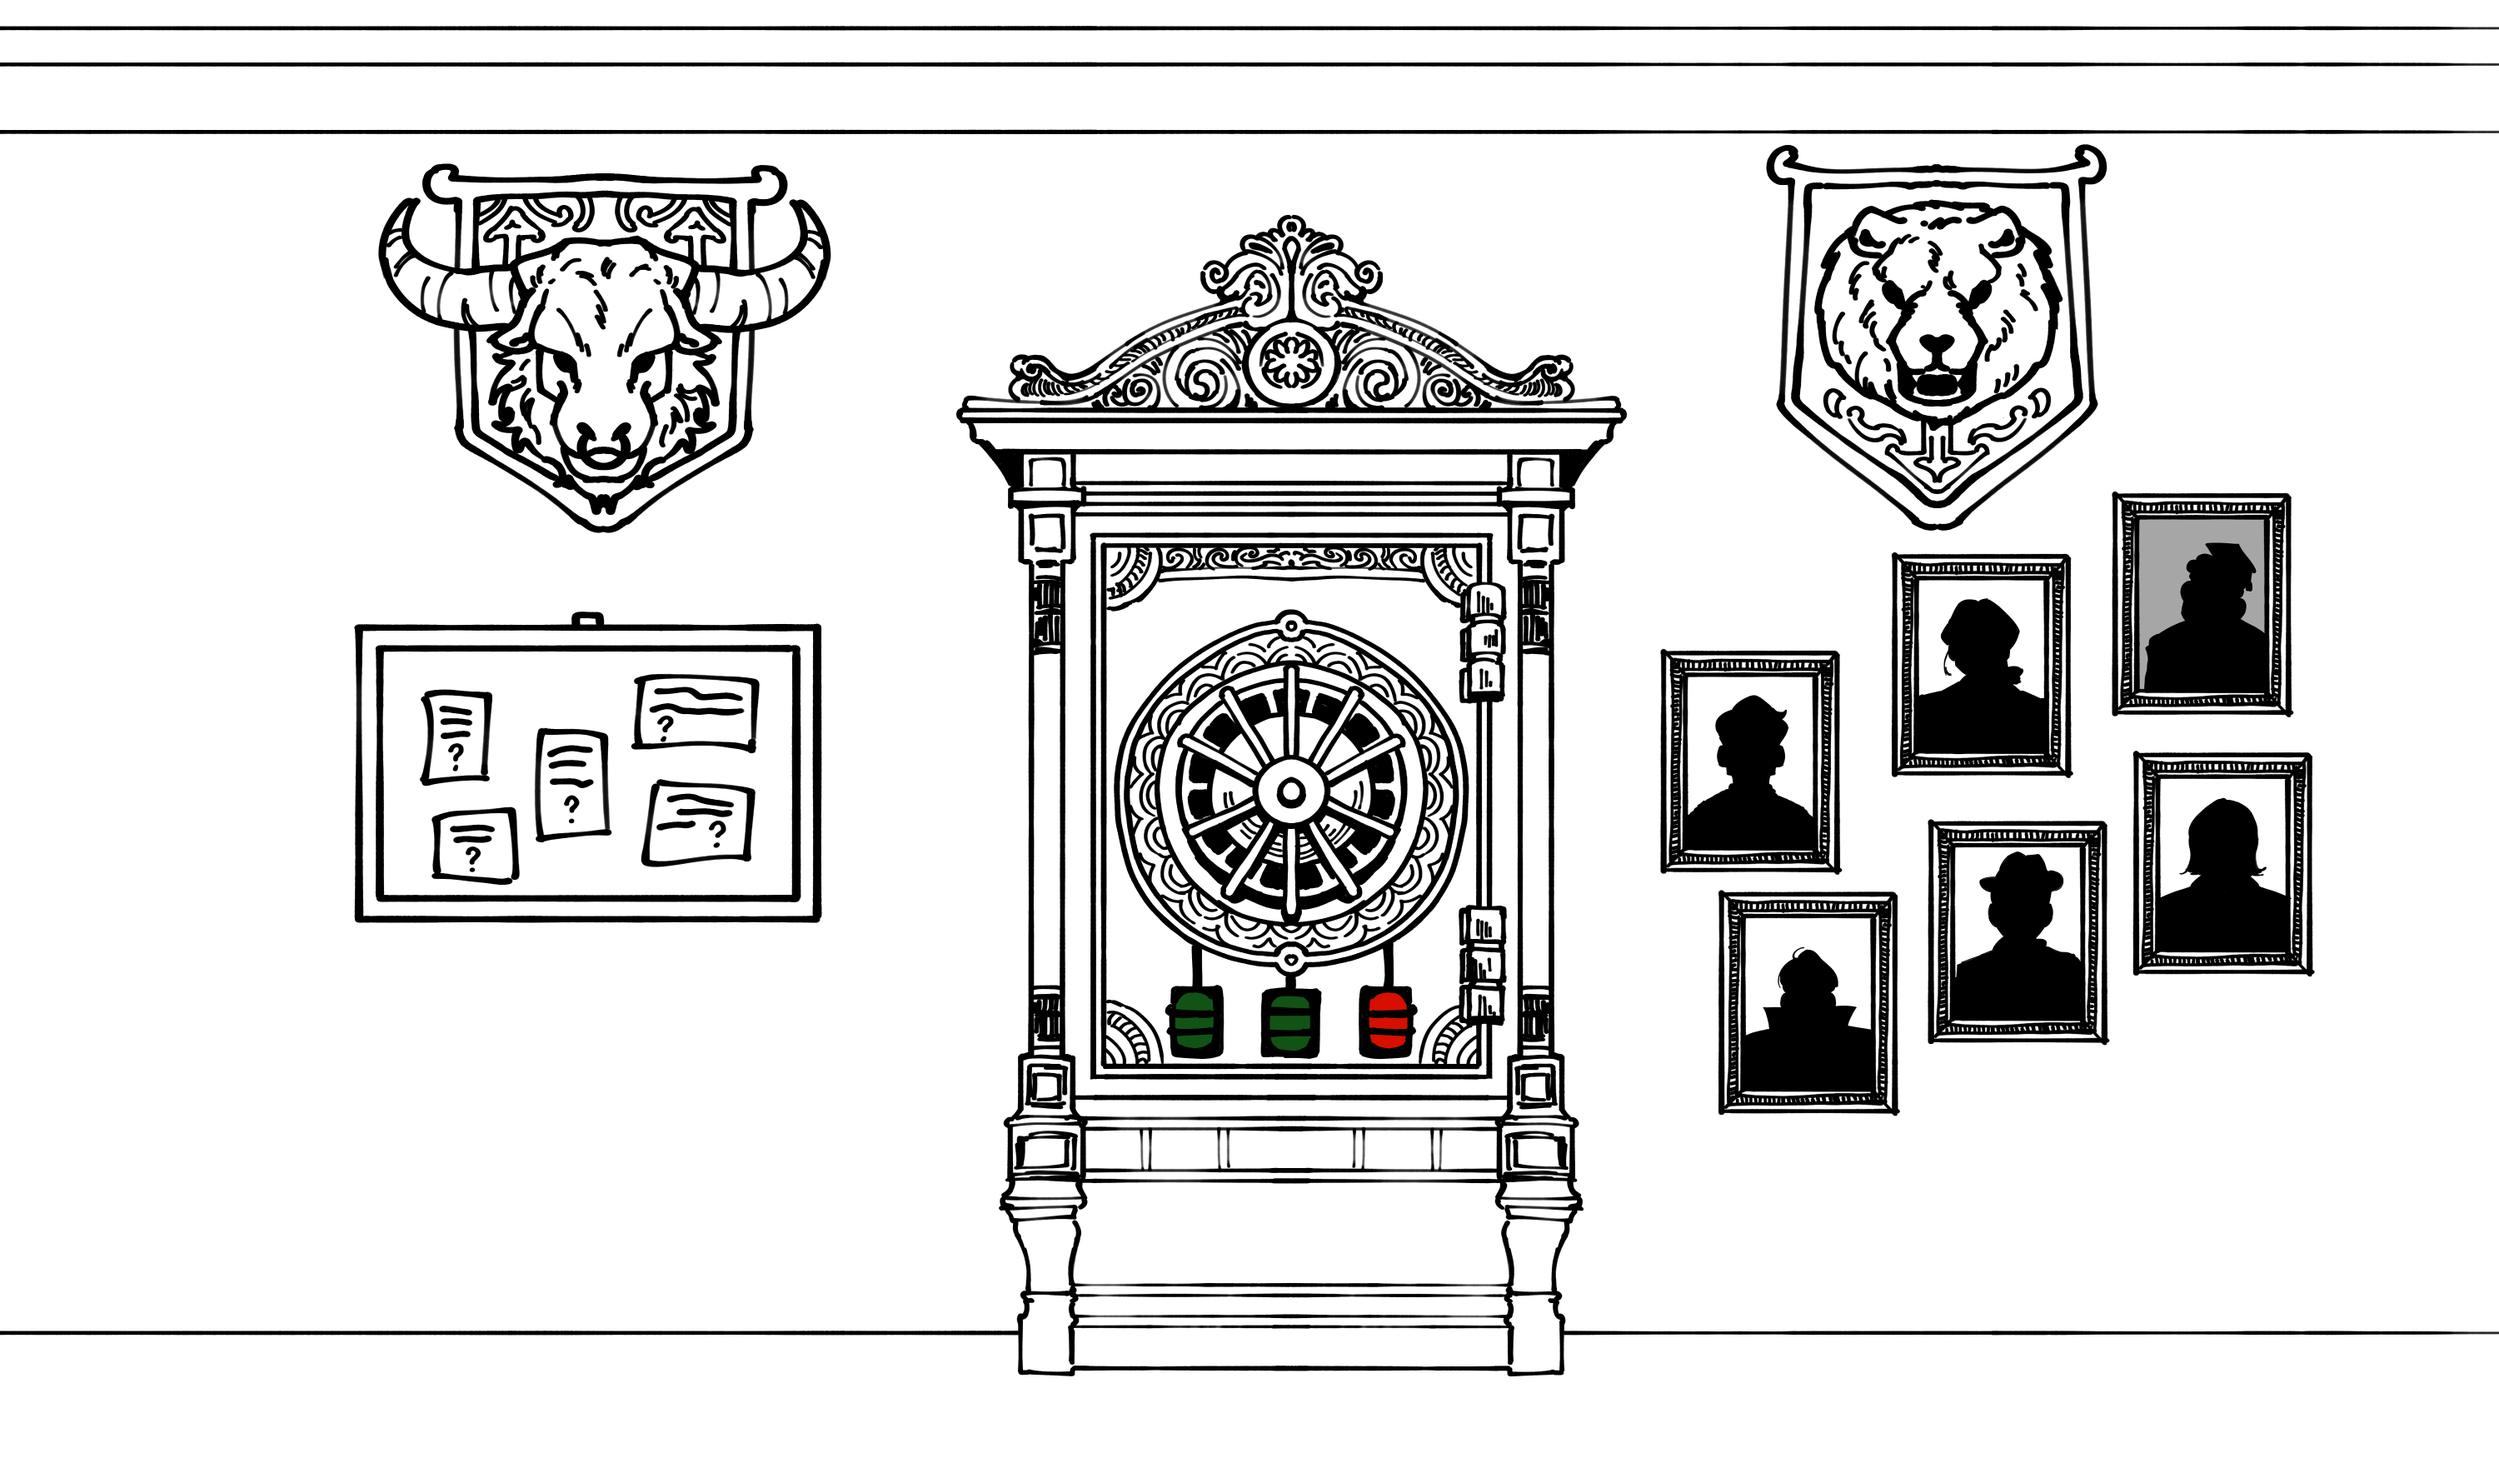
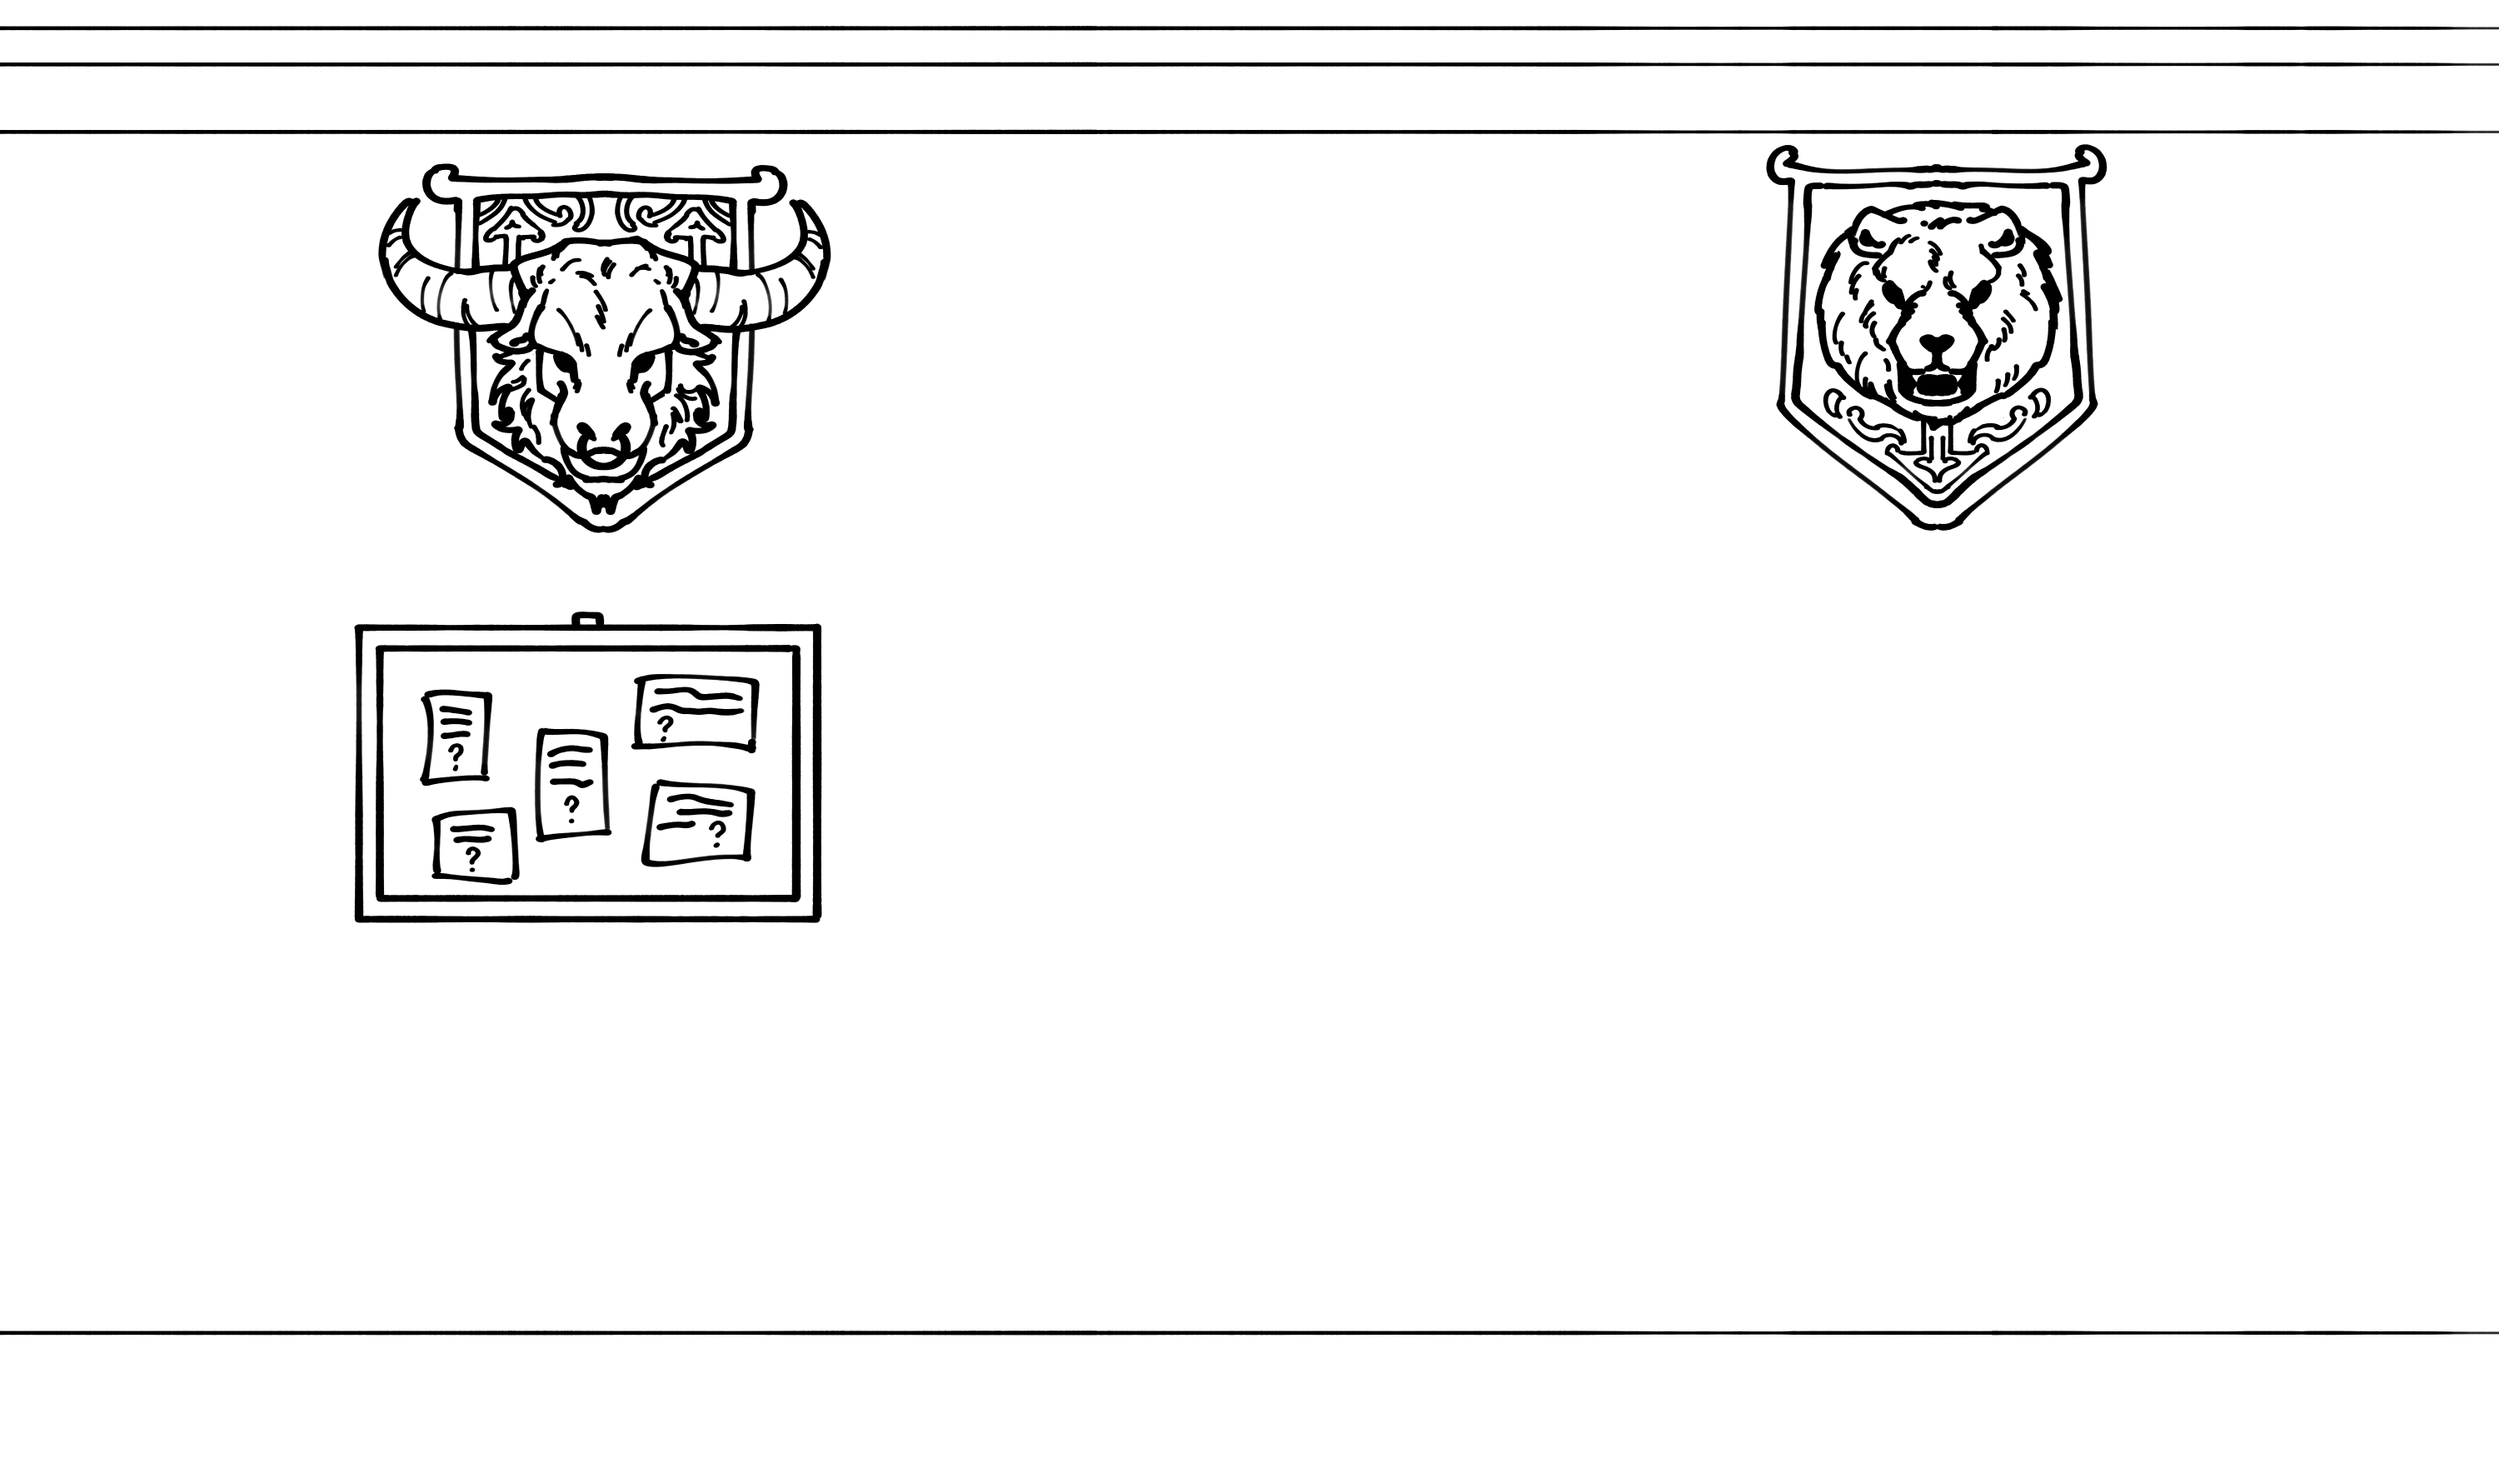
:lipstick: 금고벽 퍼블리싱

Changed region(s): [[0.372, 0.1543, 0.651, 0.9566], [0.651, 0.3394, 0.93, 0.7714]]

diff --git a/src/components/game/library/VaultWall.tsx b/src/components/game/library/VaultWall.tsx
@@ -1,6 +1,8 @@
 import React from "react";
 import styled from "styled-components";
 import bg_vaultwall from "../../../assets/library/vaultwall/bg_vaultwall.png";
+import vault_0sol from "../../../assets/library/vaultwall/vault_0sol.png";
+import frames from "../../../assets/library/vaultwall/frames.png";
 
 interface VaultWallProps {
   isDarkMode: boolean; // 불 껐는지 여부 (다크모드)
@@ -8,7 +10,12 @@ interface VaultWallProps {
 
 // 금고벽
 const VaultWall: React.FC<VaultWallProps> = ({ isDarkMode }) => {
-  return <Wrapper isDarkMode={isDarkMode}></Wrapper>;
+  return (
+    <Wrapper isDarkMode={isDarkMode}>
+      <Vault src={vault_0sol} alt="vault" isDarkMode={isDarkMode} />
+      <Frames src={frames} alt="frames" />
+    </Wrapper>
+  );
 };
 
 export default VaultWall;
@@ -25,4 +32,25 @@ const Wrapper = styled.div<{ isDarkMode: boolean }>`
 
   filter: ${(props) =>
     props.isDarkMode ? "brightness(0.5)" : "brightness(1)"};
+`;
+
+const Vault = styled.img<{ isDarkMode: boolean }>`
+  position: absolute;
+  width: 24.2%;
+  bottom: 0;
+  margin-bottom: 2.4%;
+  margin-left: 39.5%;
+
+  // 불 껐을 때 (다크모드) 밝기 올리기
+  filter: ${(props) =>
+    props.isDarkMode ? "brightness(1.5)" : "brightness(1)"};
+`;
+
+const Frames = styled.img`
+  position: absolute;
+  width: 24%;
+  right: 0;
+  margin-right: 12.3%;
+  /* margin-top: 16.5%; */
+  margin-top: 18%;
 `;
